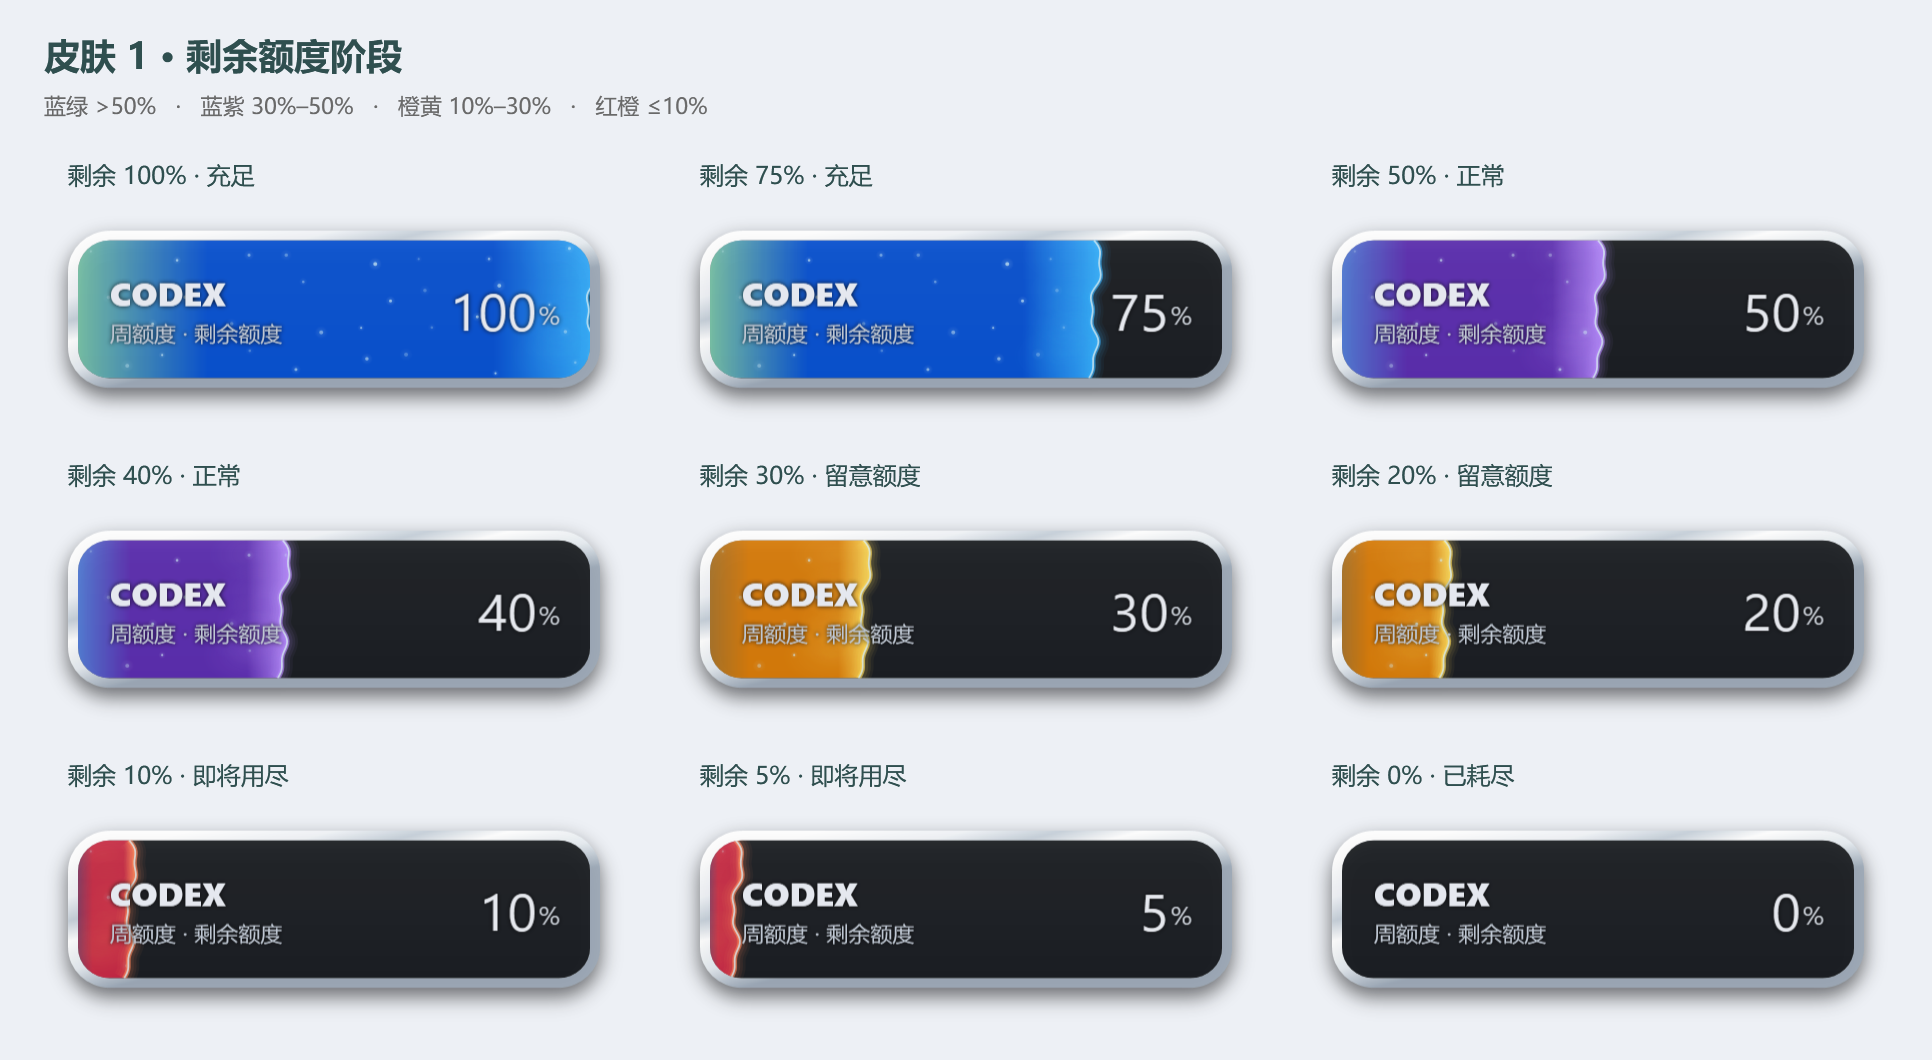
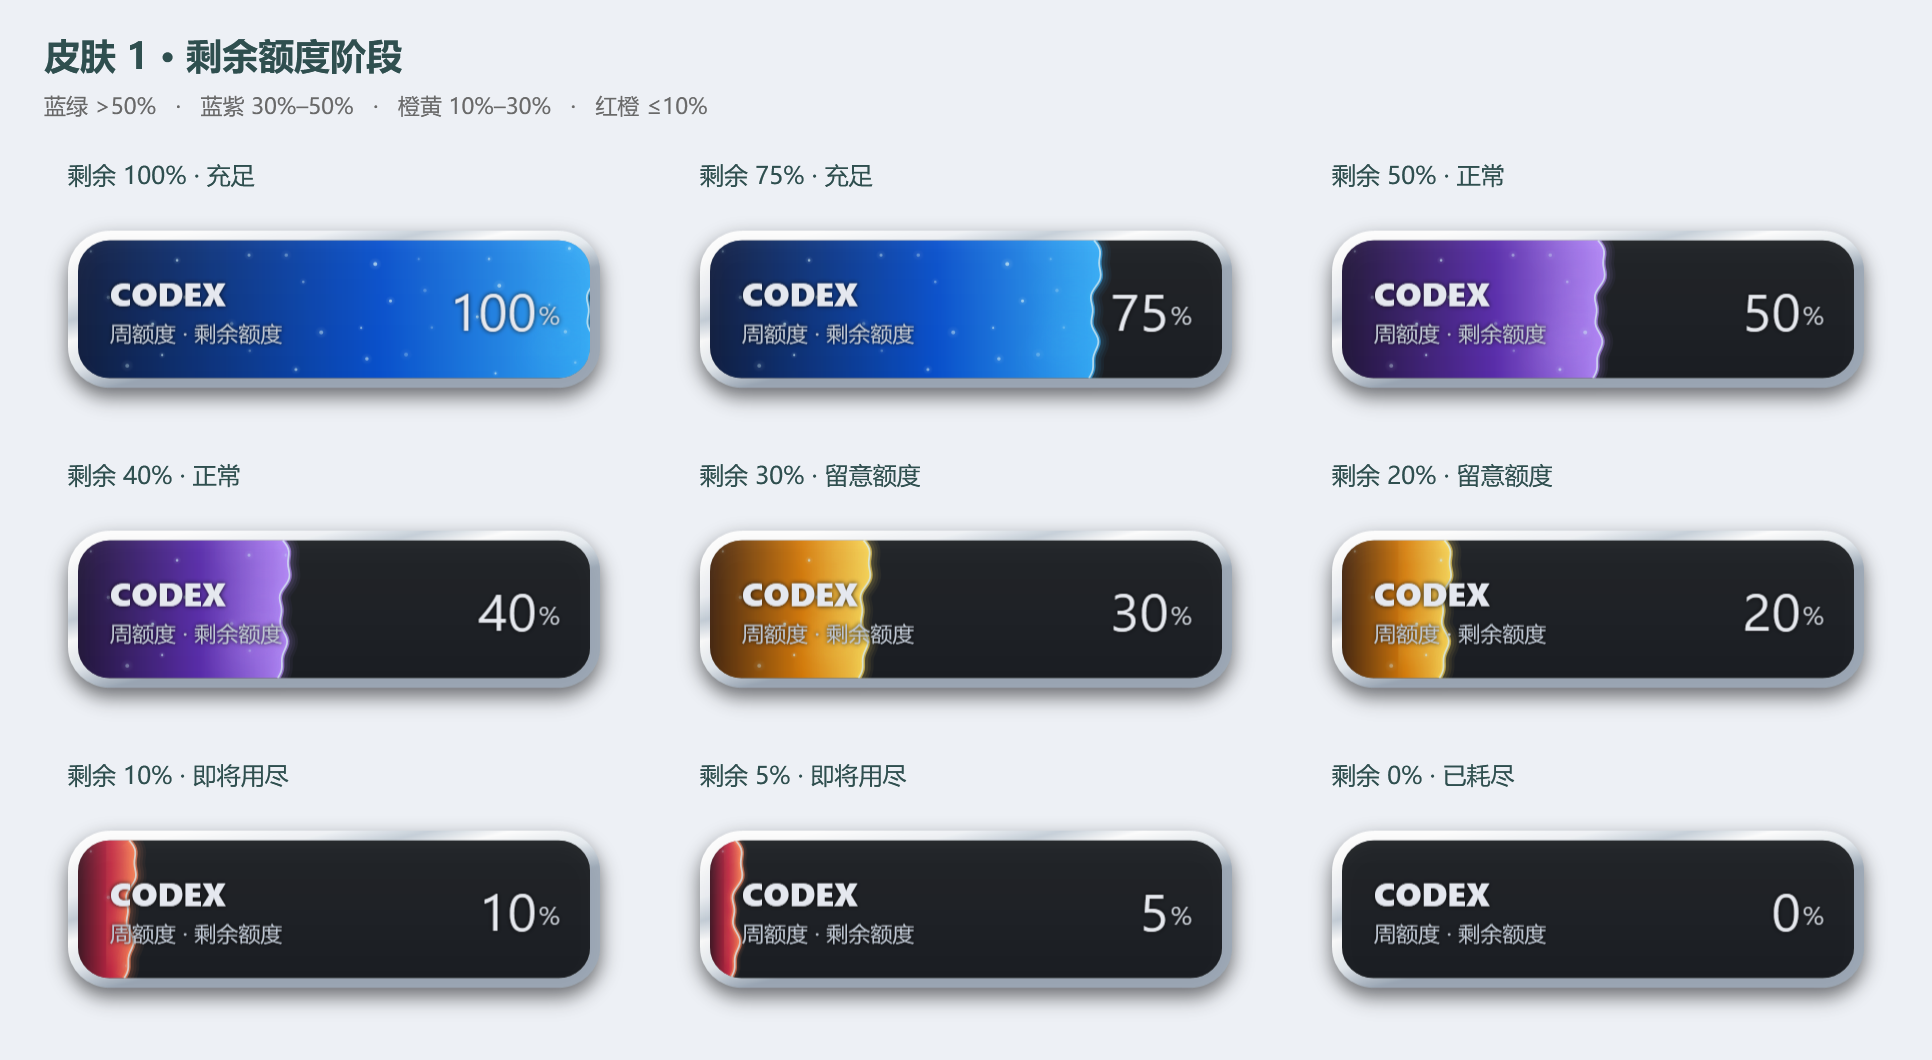
Make capsule quota gradients dark-to-light

diff --git a/src/CodexMeter.cs b/src/CodexMeter.cs
@@ -155,18 +155,20 @@ class EnergySurface : FrameworkElement {
         double w=ActualWidth,h=ActualHeight;if(w<=0||h<=0)return;
         double t=elapsed.Elapsed.TotalSeconds,p=double.IsNaN(DisplayedRemaining)?Remaining:DisplayedRemaining,x=w*Math.Max(0,Math.Min(100,p))/100;
         Color start,body,tip;
-        if(Remaining>50){start=Color.FromRgb(115,192,163);body=Color.FromRgb(0,77,210);tip=Color.FromRgb(49,177,255);}
-        else if(Remaining>30){start=Color.FromRgb(76,120,213);body=Color.FromRgb(87,39,174);tip=Color.FromRgb(182,136,255);}
-        else if(Remaining>10){start=Color.FromRgb(168,111,32);body=Color.FromRgb(219,121,0);tip=Color.FromRgb(255,218,83);}
-        else{start=Color.FromRgb(126,46,89);body=Color.FromRgb(197,31,62);tip=Color.FromRgb(255,129,83);}
+        if(Remaining>50){start=Color.FromRgb(9,23,58);body=Color.FromRgb(0,77,210);tip=Color.FromRgb(49,177,255);}
+        else if(Remaining>30){start=Color.FromRgb(27,15,52);body=Color.FromRgb(87,39,174);tip=Color.FromRgb(182,136,255);}
+        else if(Remaining>10){start=Color.FromRgb(65,32,7);body=Color.FromRgb(219,121,0);tip=Color.FromRgb(255,218,83);}
+        else{start=Color.FromRgb(59,14,28);body=Color.FromRgb(197,31,62);tip=Color.FromRgb(255,129,83);}
         dc.PushClip(new RectangleGeometry(new Rect(0,0,w,h),16,16));dc.DrawRectangle(new SolidColorBrush(Color.FromRgb(20,23,27)),null,new Rect(0,0,w,h));
         if(x>0.01){
             const int samples=49;var pts=new Point[samples];for(int i=0;i<samples;i++){double y=h*i/(samples-1);pts[i]=new Point(Edge(y,t,x),y);}
             var region=new StreamGeometry();using(var g=region.Open()){g.BeginFigure(new Point(0,0),true,true);g.LineTo(pts[0],true,false);for(int i=1;i<samples;i++)g.LineTo(pts[i],true,false);g.LineTo(new Point(0,h),true,false);}region.Freeze();
-            var fill=new LinearGradientBrush();fill.StartPoint=new Point(0,0);fill.EndPoint=new Point(1,0);fill.GradientStops.Add(new GradientStop(start,0));fill.GradientStops.Add(new GradientStop(body,0.25));fill.GradientStops.Add(new GradientStop(body,0.80));fill.GradientStops.Add(new GradientStop(tip,1));
+            var fill=new LinearGradientBrush();fill.StartPoint=new Point(0,0);fill.EndPoint=new Point(1,0);fill.GradientStops.Add(new GradientStop(start,0));fill.GradientStops.Add(new GradientStop(body,0.58));fill.GradientStops.Add(new GradientStop(tip,1));
             dc.DrawGeometry(fill,null,region);
             dc.PushClip(region);
+            dc.PushClip(new RectangleGeometry(new Rect(x*0.55,0,x*0.45+8,h)));
             for(int i=0;i<5;i++){double cy=h*(0.1+0.2*i)+Math.Sin(t*0.8+i)*6;var glow=new RadialGradientBrush();glow.GradientStops.Add(new GradientStop(Alpha(tip,35),0));glow.GradientStops.Add(new GradientStop(Alpha(tip,0),1));dc.DrawEllipse(glow,null,new Point(x-13+Math.Sin(t+i)*4,cy),24,15);}
+            dc.Pop();
             // Stable, gently drifting stars span the whole fill; its clip keeps the spent area clear.
             const int particleColumns=8,particleRows=4;
             for(int row=0;row<particleRows;row++)for(int col=0;col<particleColumns;col++){
@@ -179,7 +181,7 @@ class EnergySurface : FrameworkElement {
             dc.Pop();
             var edge=new StreamGeometry();using(var g=edge.Open()){g.BeginFigure(pts[0],false,false);for(int i=1;i<samples;i++)g.LineTo(pts[i],true,false);}edge.Freeze();
             double pulse=(0.93+0.07*Math.Sin(t*2.1))*Intensity;
-            for(int i=4;i>=1;i--){var pen=new Pen(new SolidColorBrush(Alpha(tip,(byte)Math.Min(255,(11+7*(5-i))*pulse))),i*2.7);pen.LineJoin=PenLineJoin.Round;dc.DrawGeometry(null,pen,edge);}
+            for(int i=4;i>=1;i--){var pen=new Pen(new SolidColorBrush(Alpha(tip,(byte)Math.Min(255,(11+7*(5-i))*pulse))),i*2.7*Math.Min(1,x/24));pen.LineJoin=PenLineJoin.Round;dc.DrawGeometry(null,pen,edge);}
             dc.DrawGeometry(null,new Pen(new SolidColorBrush(Alpha(tip,(byte)(220*pulse))),2.3),edge);
             dc.DrawGeometry(null,new Pen(new SolidColorBrush(Alpha(Color.FromRgb(227,250,255),(byte)(255*pulse))),0.9),edge);
         }

diff --git a/CHANGELOG.md b/CHANGELOG.md
@@ -1,5 +1,10 @@
 # Changelog
 
+## v1.0.3 — 2026-10-18
+
+- Make every capsule quota color progress from a dark left edge to a lighter right frontier.
+- Remove the pale strip at the left and keep frontier haze away from it at low quota levels.
+
 ## v1.0.2 — 2026-10-18
 
 - Replace perimeter scanning with a red glow across the entire widget for task completion.
